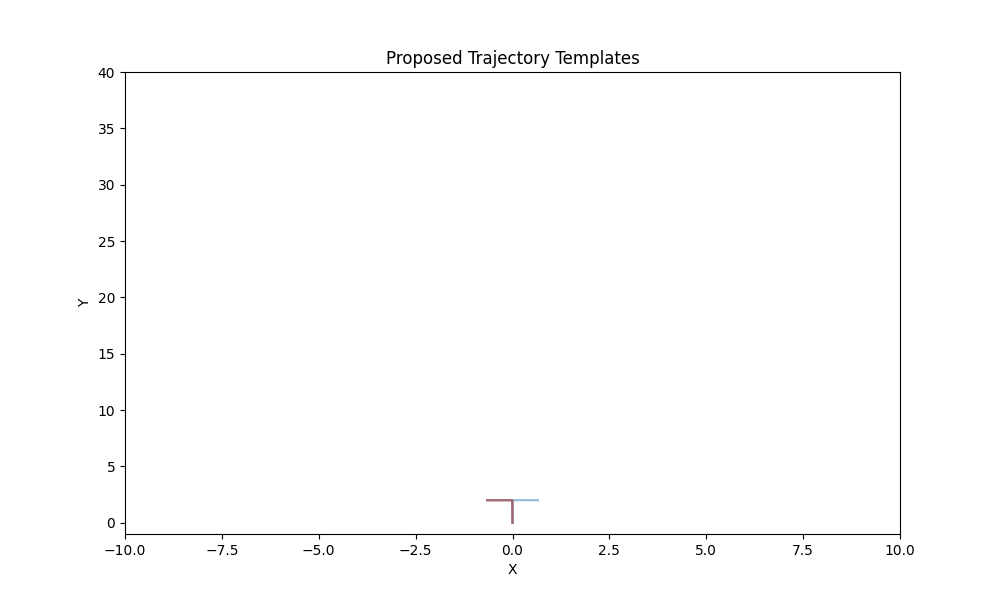
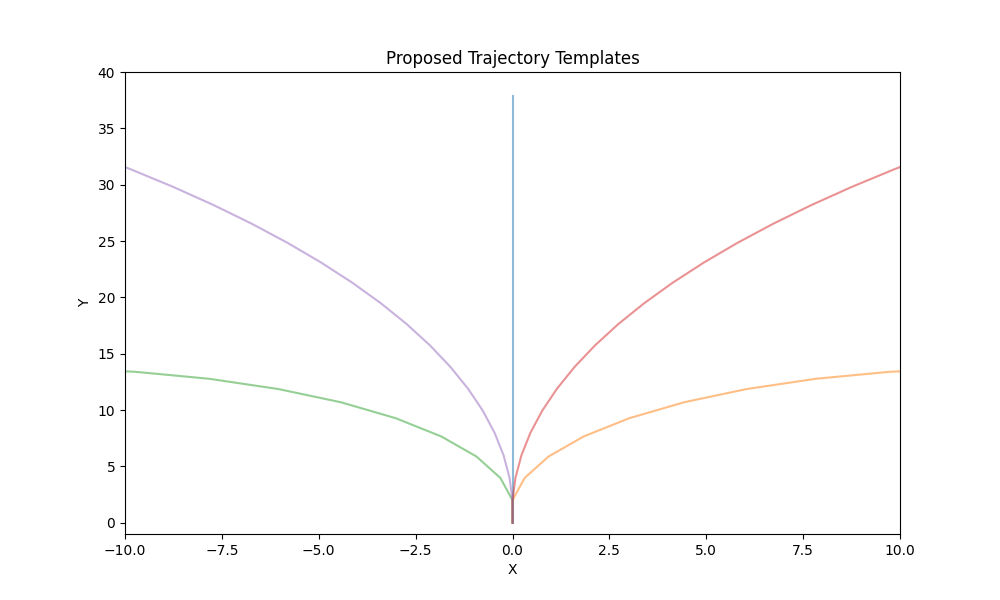
feat(carla_run): auto start and stop carla on script launch, disable flag for gpt calls

diff --git a/drivellava/scripts/carla_run.py b/drivellava/scripts/carla_run.py
@@ -2,16 +2,69 @@
 GPT Vision to make Control Decisions
 """
 
+import os
+import signal
+import subprocess
 import time
 import traceback
+from contextlib import contextmanager
 
 import cv2
 import numpy as np
+from torch.multiprocessing import Process, Queue
 
 from drivellava.carla.client import CarlaClient
 from drivellava.gpt.gpt_vision import GPTVision
+from drivellava.schema.carla import DroneControls
 from drivellava.settings import settings
 from drivellava.utils import plot_steering_traj
+
+
+def async_gpt(gpt_input_q: Queue, gpt_output_q: Queue, gpt: GPTVision):
+
+    while True:
+        try:
+            data = gpt_input_q.get()
+            image, drone_state, mission = data
+            gpt_controls = gpt.step(image, drone_state, mission)
+            gpt_output_q.put(gpt_controls.model_dump())
+        except Exception as ex:
+            print("Exception while calling GPT", ex)
+            traceback.print_exc()
+
+
+@contextmanager
+def start_carla():
+    """
+    Launch Carla using the command
+
+    This function is to be used with the 'with' clause:
+        ```py
+        with start_carla():
+            print("Carla is running")
+        ```
+
+        Once the function exits, carla is to shutdown
+    """
+    command = "CUDA_VISIBLE_DEVICES=0 ./CarlaUE4.sh -quality-level=Low -prefernvidia -ResX=10 -ResY=10"  # noqa
+    try:
+        # Start the Carla process
+        process = subprocess.Popen(
+            command,
+            shell=True,
+            cwd=settings.ui.CARLA_INSTALL_PATH,
+            preexec_fn=os.setsid,
+        )
+        time.sleep(5)
+        yield process
+    finally:
+        # Ensure the Carla process is terminated upon exiting the context
+        # Note: it appears that carla requires two of these to exit
+        os.killpg(os.getpgid(process.pid), signal.SIGTERM)
+        time.sleep(1)
+        os.killpg(os.getpgid(process.pid), signal.SIGTERM)
+
+        process.wait()  # Wait for the process to properly terminate
 
 
 def main():  # pragma: no cover
@@ -36,6 +89,15 @@ def main():  # pragma: no cover
     # image = drone_state.image.cv_image()
 
     last_update = drone_state.timestamp
+
+    gpt_input_q = Queue(maxsize=1)
+    gpt_output_q = Queue(maxsize=1)
+
+    gpt_process = Process(
+        target=async_gpt, args=(gpt_input_q, gpt_output_q, gpt)
+    )
+    gpt_process.daemon = True
+    gpt_process.start()
 
     try:
         while True:
@@ -66,11 +128,15 @@ def main():  # pragma: no cover
             # print(type(image), image.dtype)
 
             image_vis = image_raw.copy()
+
+            if gpt_input_q.empty():
+                data = (image, drone_state, mission)
+                gpt_input_q.put(data)
+
             # Get GPT Controls
-            if drone_state.timestamp > last_update:
-                # last_update = drone_state.timestamp
-                last_update = int(time.time() * 1000)
-                gpt_controls = gpt.step(image, drone_state, mission)
+            if not gpt_output_q.empty():
+                gpt_controls_dict = gpt_output_q.get()
+                gpt_controls = DroneControls(**gpt_controls_dict)
 
                 client.set_car_controls(gpt_controls, gpt.trajectory_encoder)
                 gpt.previous_messages.timestamp = last_update
@@ -91,7 +157,7 @@ def main():  # pragma: no cover
                     track=True,
                 )
 
-                cv2.imshow("carla", image_vis)
+                cv2.imshow("DriveLLaVA", image_vis)
 
             key = cv2.waitKey(10) & 0xFF
             if key == ord("q"):
@@ -102,7 +168,9 @@ def main():  # pragma: no cover
         traceback.print_exc()
     finally:
         cv2.destroyAllWindows()
+        gpt_process.kill()
 
 
 if __name__ == "__main__":
-    main()
+    with start_carla():
+        main()

diff --git a/drivellava/scripts/generate_trajectory_templates_simple.py b/drivellava/scripts/generate_trajectory_templates_simple.py
@@ -17,8 +17,9 @@ from drivellava.utils import plot_bev_trajectory, plot_steering_traj
 def generate_trajectory_dataset(
     num_templates: int,
     num_frames: int,
-    total_angle: float = np.pi / 2,  # radians
+    total_angle: float = np.pi,  # radians
     trajectory_distance: float = 40.0,  # meters
+    noise: float = 0.0,  # percentage of noise
 ) -> list:
     """
     Generate a list of trajectories.
@@ -37,6 +38,8 @@ def generate_trajectory_dataset(
     All the points on the trajectory must be roughly equidistant from their
         neighbors.
     """
+
+    assert noise >= 0
     trajectory_dataset = []
 
     # Calculate the total distance and angle covered by each trajectory
@@ -65,6 +68,9 @@ def generate_trajectory_dataset(
             x = trajectory[-1][0] + distance_per_frame * np.sin(angle)
             y = trajectory[-1][2] + distance_per_frame * np.cos(angle)
 
+            x = x * (1 + np.random.uniform(-noise, noise))
+            y = y * (1 + np.random.uniform(-noise, noise))
+
             # Append the new point to the current trajectory
             trajectory.append((x, 0, y))
             # trajectory.append((y, 0, -x))
@@ -88,7 +94,7 @@ def generate_trajectory_dataset(
 def main():
 
     NUM_FRAMES = TRAJECTORY_SIZE
-    K = 9
+    K = 5
     PLOT_TRAJ = True
 
     trajectories = []

diff --git a/drivellava/carla/client.py b/drivellava/carla/client.py
@@ -24,7 +24,7 @@ class CarlaClient:
         host="127.0.0.1",
         port=2000,
         sync=True,
-        autopilot=False,
+        autopilot=True,
         width=256,
         height=128,
         rolename="hero",
@@ -45,7 +45,7 @@ class CarlaClient:
             settings = self.sim_world.get_settings()
             # if not settings.synchronous_mode:
             settings.synchronous_mode = True
-            settings.fixed_delta_seconds = 1.0
+            settings.fixed_delta_seconds = 3.0
             self.sim_world.apply_settings(settings)
 
             traffic_manager = self.client.get_trafficmanager()
@@ -127,6 +127,7 @@ class CarlaClient:
         """
         Set the car controls
         """
+        return
         controls.speed_index = 1
         if controls.speed_index == 0:
             self.world.player.enable_constant_velocity(
@@ -148,6 +149,12 @@ class CarlaClient:
                 - 1.0
             )
 
+            if abs(steering_angle) < 0.2:
+                steering_angle = 0.0
+
+            print("steering_angle", steering_angle)
+
             assert -1 <= steering_angle <= 1
 
-            self.controller.set_steering_angle(steering_angle)
+            self.controller.set_steering_angle(steering_angle, self.world)
+            # self.controller.set_steering_angle(1.0)

diff --git a/drivellava/gpt/gpt_vision.py b/drivellava/gpt/gpt_vision.py
@@ -48,12 +48,12 @@ def llm_client_factory(llm_provider: str):
 
 
 class GPTVision:
-    def __init__(self, max_history=1):
+    def __init__(self, max_history=10):
         self.client = llm_client_factory(settings.system.SYSTEM_LLM_PROVIDER)
 
         self.previous_messages = GPTState()
         self.max_history = max_history
-        self.num_trajectory_templates = 9
+        self.num_trajectory_templates = 5
         TRAJECTORY_TEMPLATES_NPY = f"./trajectory_templates/proposed_trajectory_templates_simple_{self.num_trajectory_templates}.npy"  # noqa
         TRAJECTORY_TEMPLATES_KMEANS_PKL = f"./trajectory_templates/kmeans_simple_{self.num_trajectory_templates}.pkl"  # noqa
         self.trajectory_encoder = TrajectoryEncoder(
@@ -69,6 +69,11 @@ class GPTVision:
         mission: str,
     ) -> DroneControls:
         # base64_image = encode_opencv_image(image)
+
+        if not settings.system.GPT_ENABLED:
+            gpt_controls = DroneControls(trajectory_index=0, speed_index=0)
+            return gpt_controls
+
         trajectory_templates, colors = (
             self.trajectory_encoder.get_colors_left_to_right()
         )

diff --git a/drivellava/common.py b/drivellava/common.py
@@ -13,10 +13,11 @@ DEFAULT_LLM_PROVIDER = "openai"
 # DEFAULT_LLM_PROVIDER = "ollama"
 
 DEFAULT_MISSION = dedent(
-    """As DriveLLaVA, the autonomous vehicle, your task is to analyze the
-    given image and determine the optimal driving path. Choose the most
-    suitable trajectory option from the list provided based on the
-    visual information."""
+    """As DriveLLaVA, the autonomous vehicle, your task is to analyze the \
+    given image and determine the optimal driving path. Choose the most \
+    suitable trajectory option from the list provided based on the \
+    visual information. Make sure to stay centered in your lane. \
+    If you deviate from the lane make sure to make course corrections"""
 )
 
 

diff --git a/drivellava/settings.py b/drivellava/settings.py
@@ -29,6 +29,9 @@ class DroneSettings:
 
 class UISettings:
     UI_ENABLED: bool = str_to_bool(os.getenv("UI_ENABLED", "True"))
+    CARLA_INSTALL_PATH: str = os.getenv(
+        "CARLA_INSTALL_PATH", os.path.expanduser("~/Apps/CARLA")
+    )
 
 
 class SystemSettings:
@@ -46,6 +49,7 @@ class SystemSettings:
         os.getenv("NUM_TRAJECTORY_TEMPLATES", "16"), 16
     )
     TRAJECTORY_SIZE: int = str_to_int(os.getenv("TRAJECTORY_SIZE", "20"), 20)
+    GPT_ENABLED: bool = str_to_bool(os.getenv("GPT_ENABLED", "True"))
 
 
 class Settings:

diff --git a/drivellava/carla/helpers.py b/drivellava/carla/helpers.py
@@ -1524,9 +1524,10 @@ class KeyboardControl(object):
         else:
             self._ackermann_control.steer = round(self._steer_cache, 1)
 
-    def set_steering_angle(self, steering_angle):
+    def set_steering_angle(self, steering_angle, world):
         if not self._ackermann_enabled:
             self._control.steer = round(steering_angle, 1)
+            world.player.apply_control(self._control)
         else:
             self._ackermann_control.steer = round(steering_angle, 1)
 
